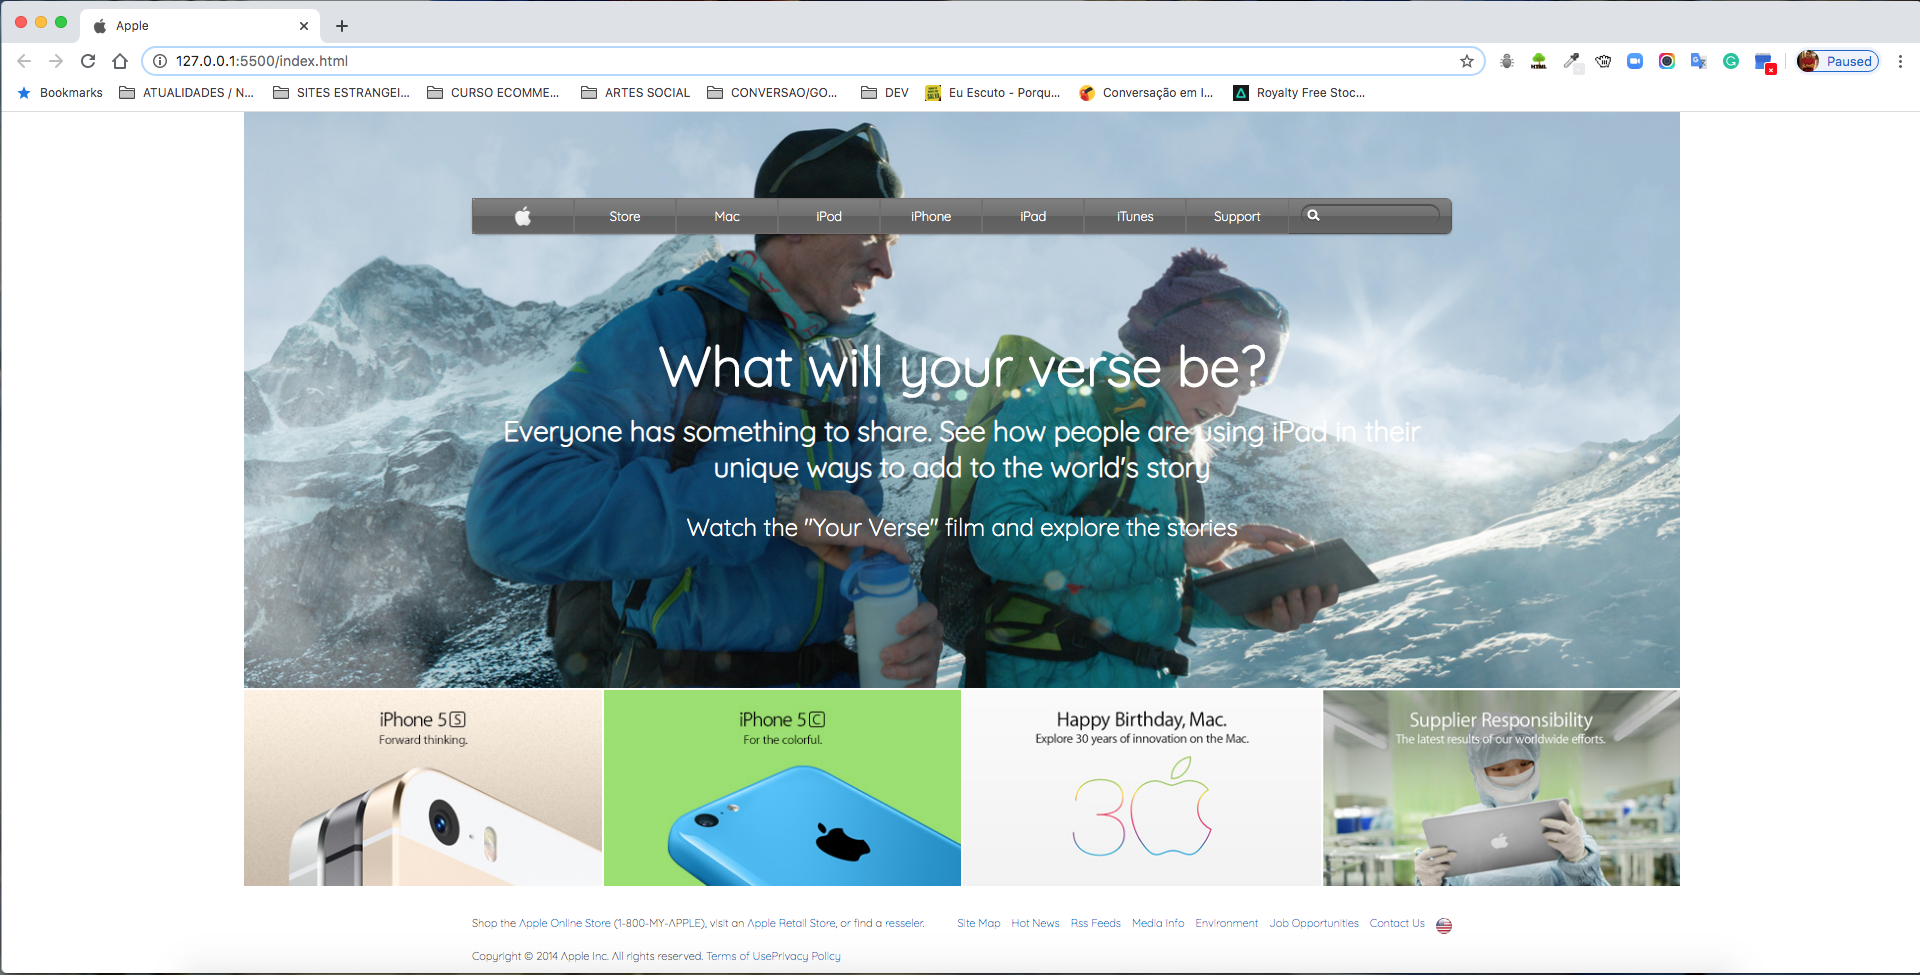
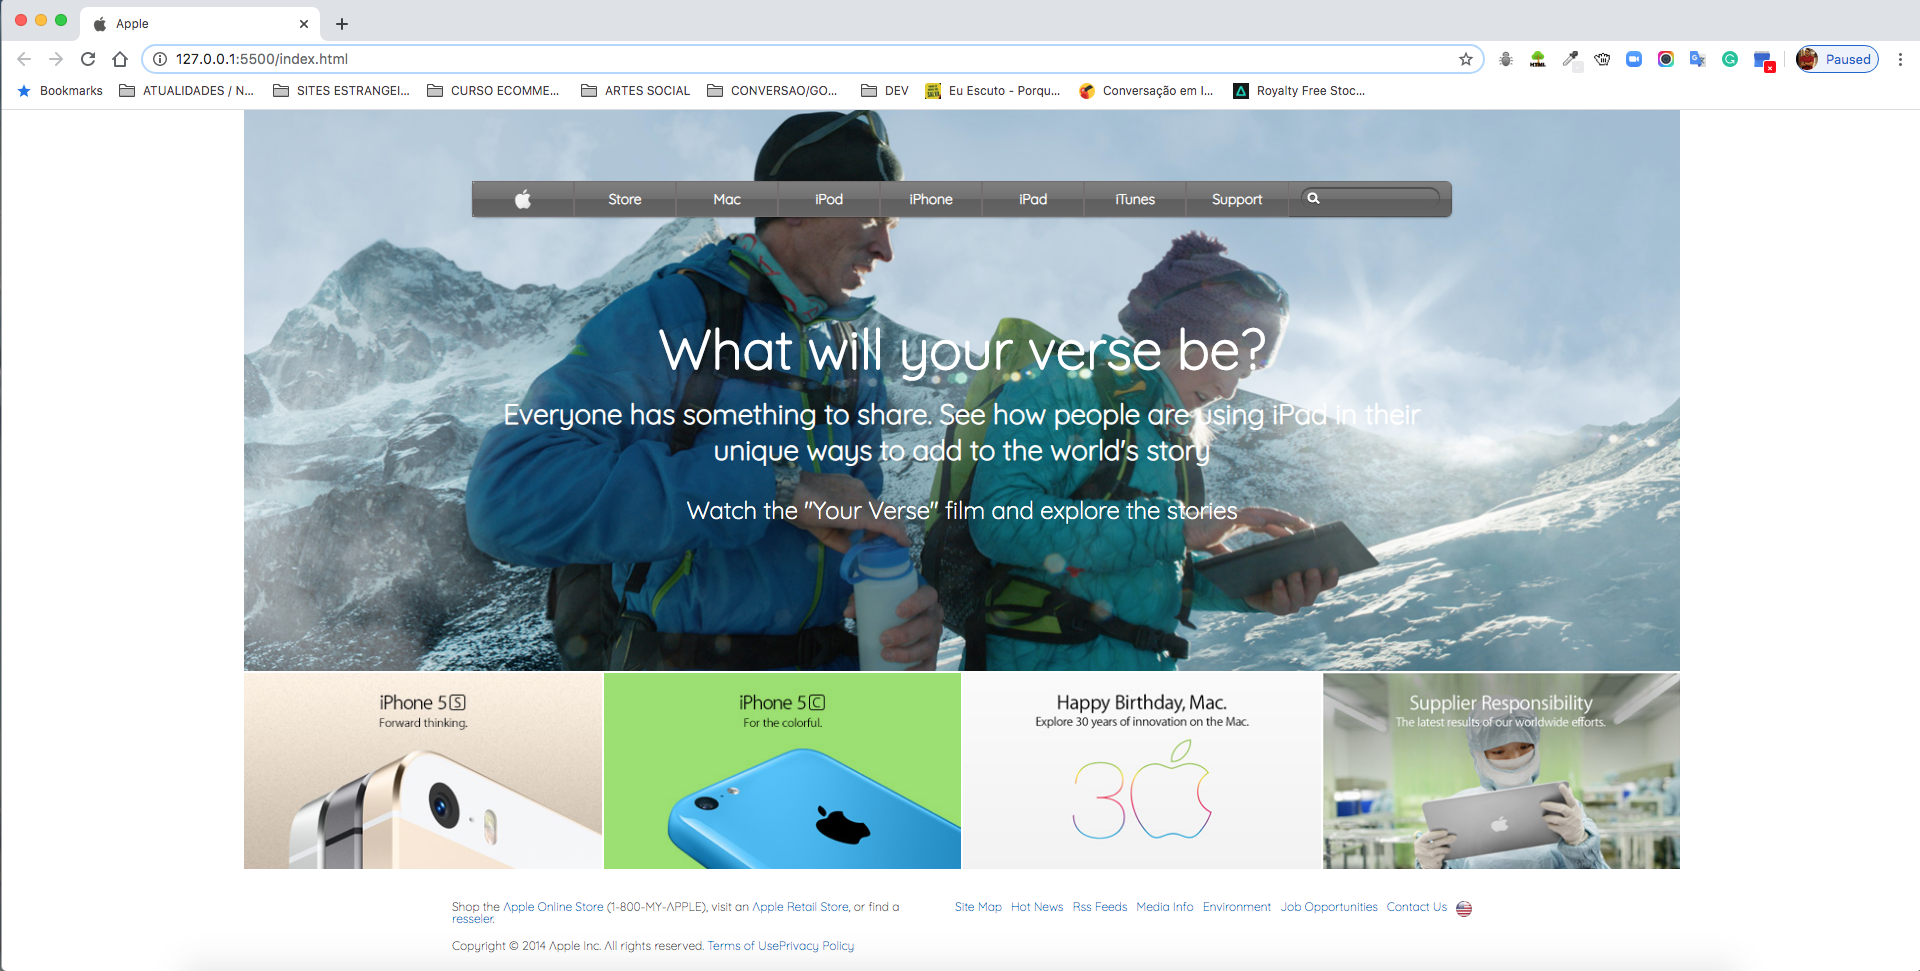
Fix errors

Changed region(s): [[0.0, 0.0, 1.0, 1.0]]

diff --git a/styles/style.css b/styles/style.css
@@ -102,7 +102,8 @@ body {
 }
 
 .nav-bar a {
-  font-size: 13px;
+  font-size: 14px;
+  font-weight: 600;
   color: white;
 }
 
@@ -170,13 +171,12 @@ body {
 /* Second Container - ASIDE */
 
 .second-container {
-  width: 1436px;
+  width: 100%;
   margin-top: 2px;
 }
 
 .promos {
   display: grid;
-  max-width: 1436px;
   grid-template-columns: 1fr 1fr 1fr 1fr;
   grid-template-rows: auto;
   grid-gap: 2px;
@@ -202,24 +202,26 @@ body {
   grid-template-columns: 48% 1fr;
   grid-template-rows: 2fr;
   margin: 0 auto;
-  width: 980px;
+  width: 1020px;
+}
+
+.right,
+.left {
+  font-size: 12px;
+  margin-top: 30px;
 }
 
 .left {
-  font-size: 11px;
   text-align: left;
-  margin-top: 30px;
 }
 
 .right {
   display: flex;
-  font-size: 11px;
   justify-content: flex-end;
-  margin-top: 30px;
 }
 
 .right a {
-  padding-left: 11px;
+  padding-left: 9px;
 }
 
 .right img {
@@ -229,5 +231,5 @@ body {
 .bottom-left {
   margin-top: 15px;
   text-align: left;
-  font-size: 11px;
+  font-size: 12px;
 }

diff --git a/styles/reset.css b/styles/reset.css
@@ -1,8 +1,3 @@
-/* http://meyerweb.com/eric/tools/css/reset/
-   v2.0 | 20110126
-   License: none (public domain)
-*/
-
 html,
 body,
 div,
